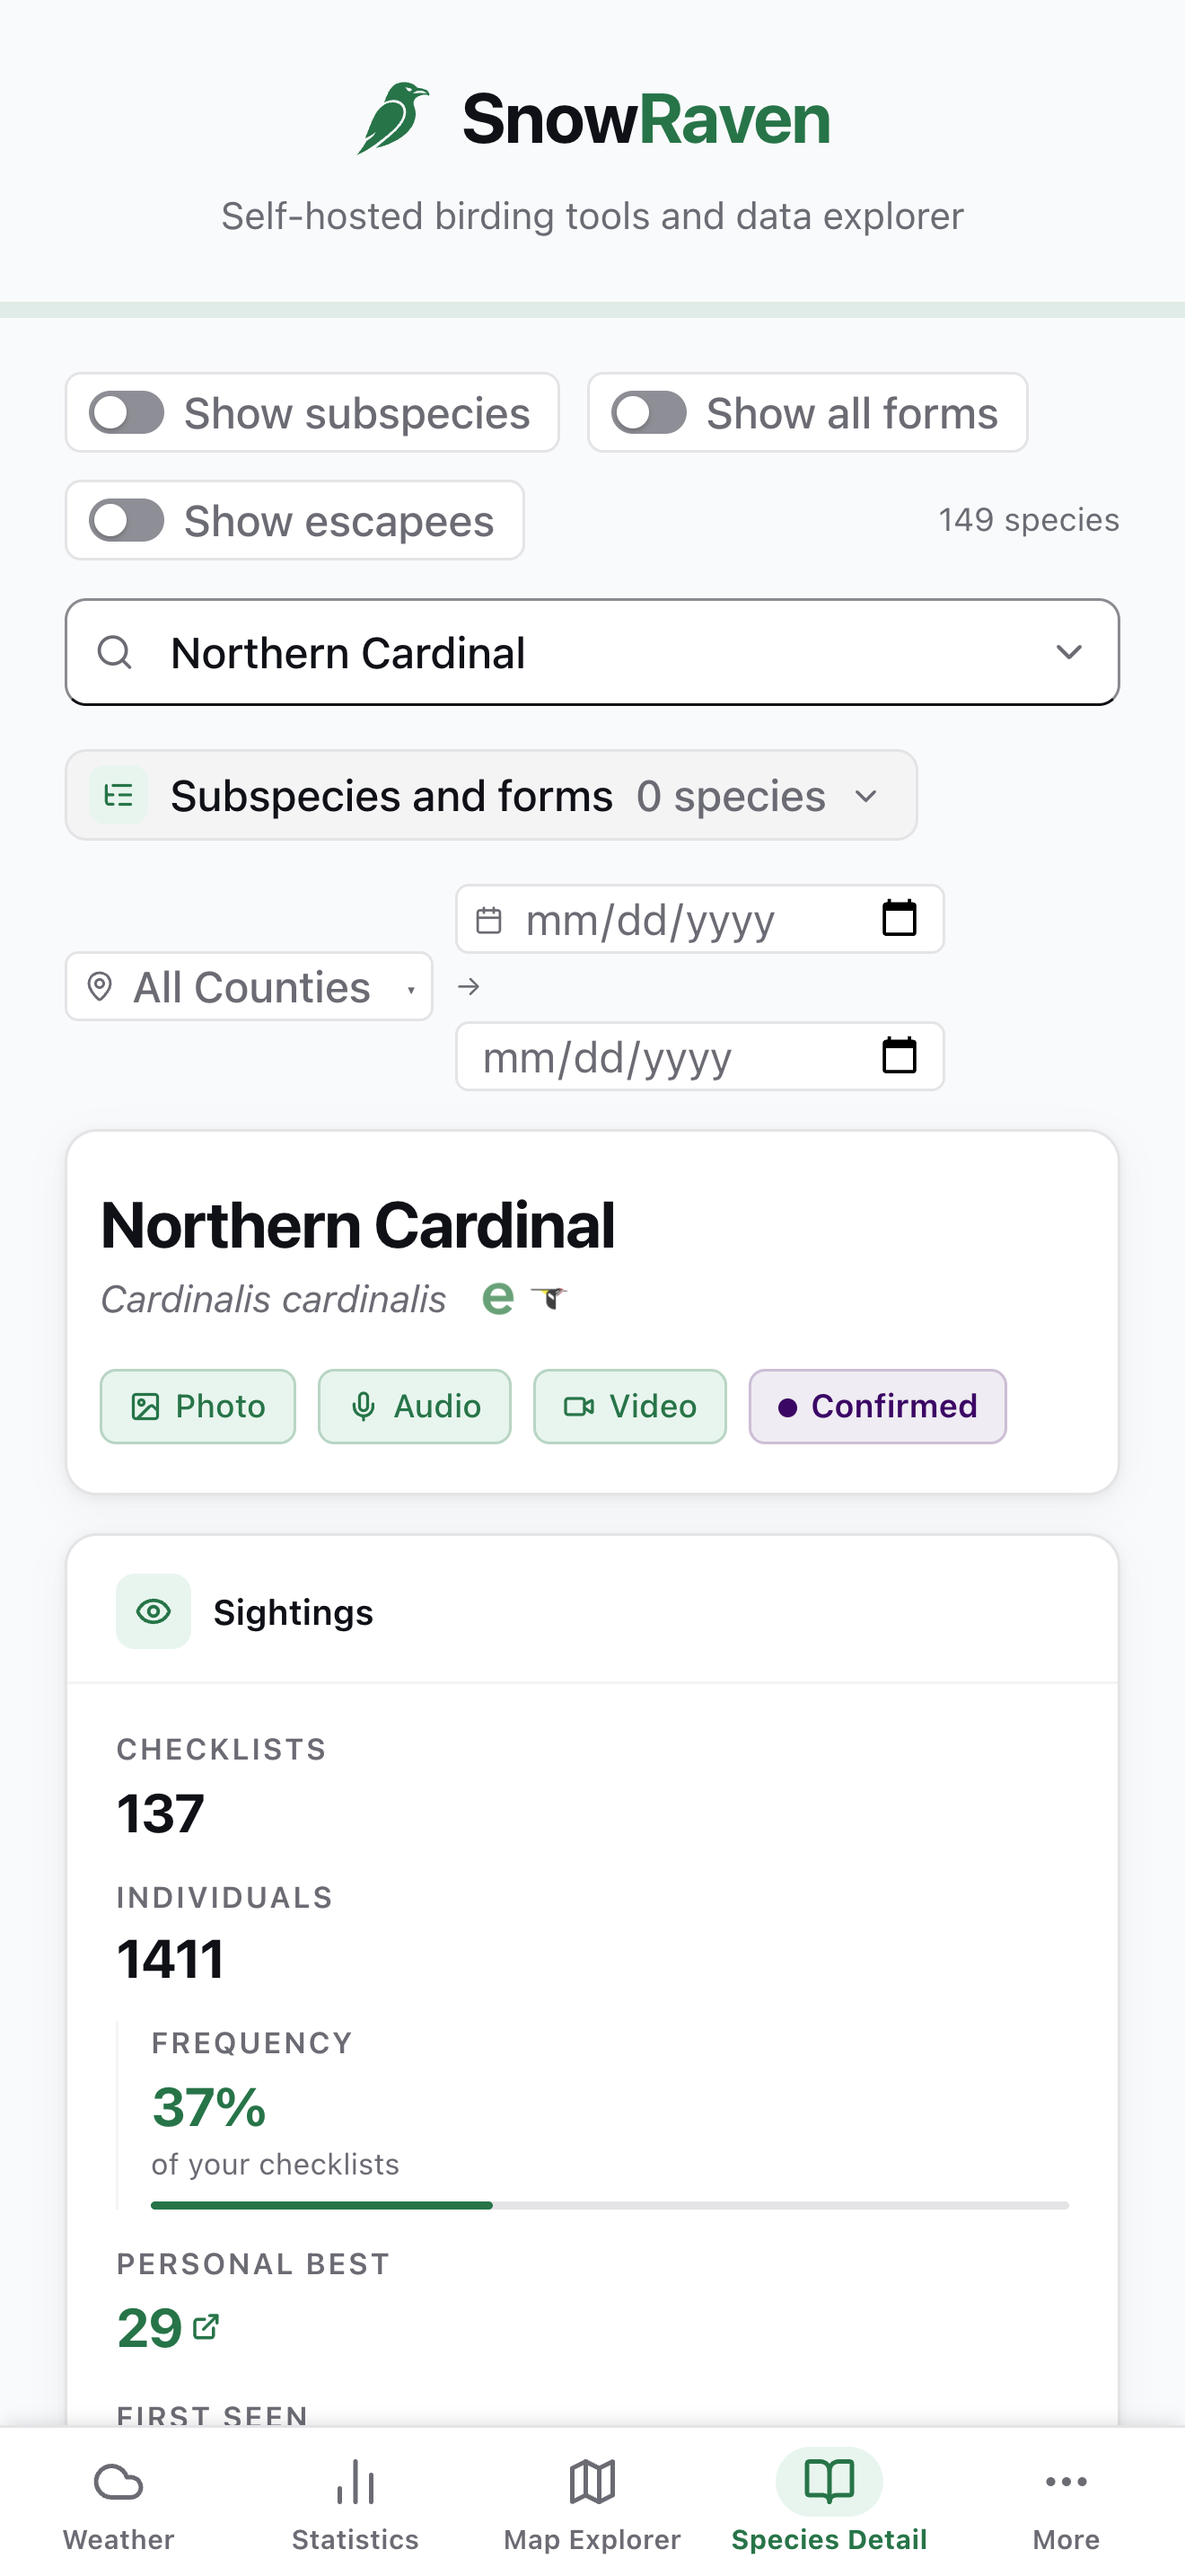
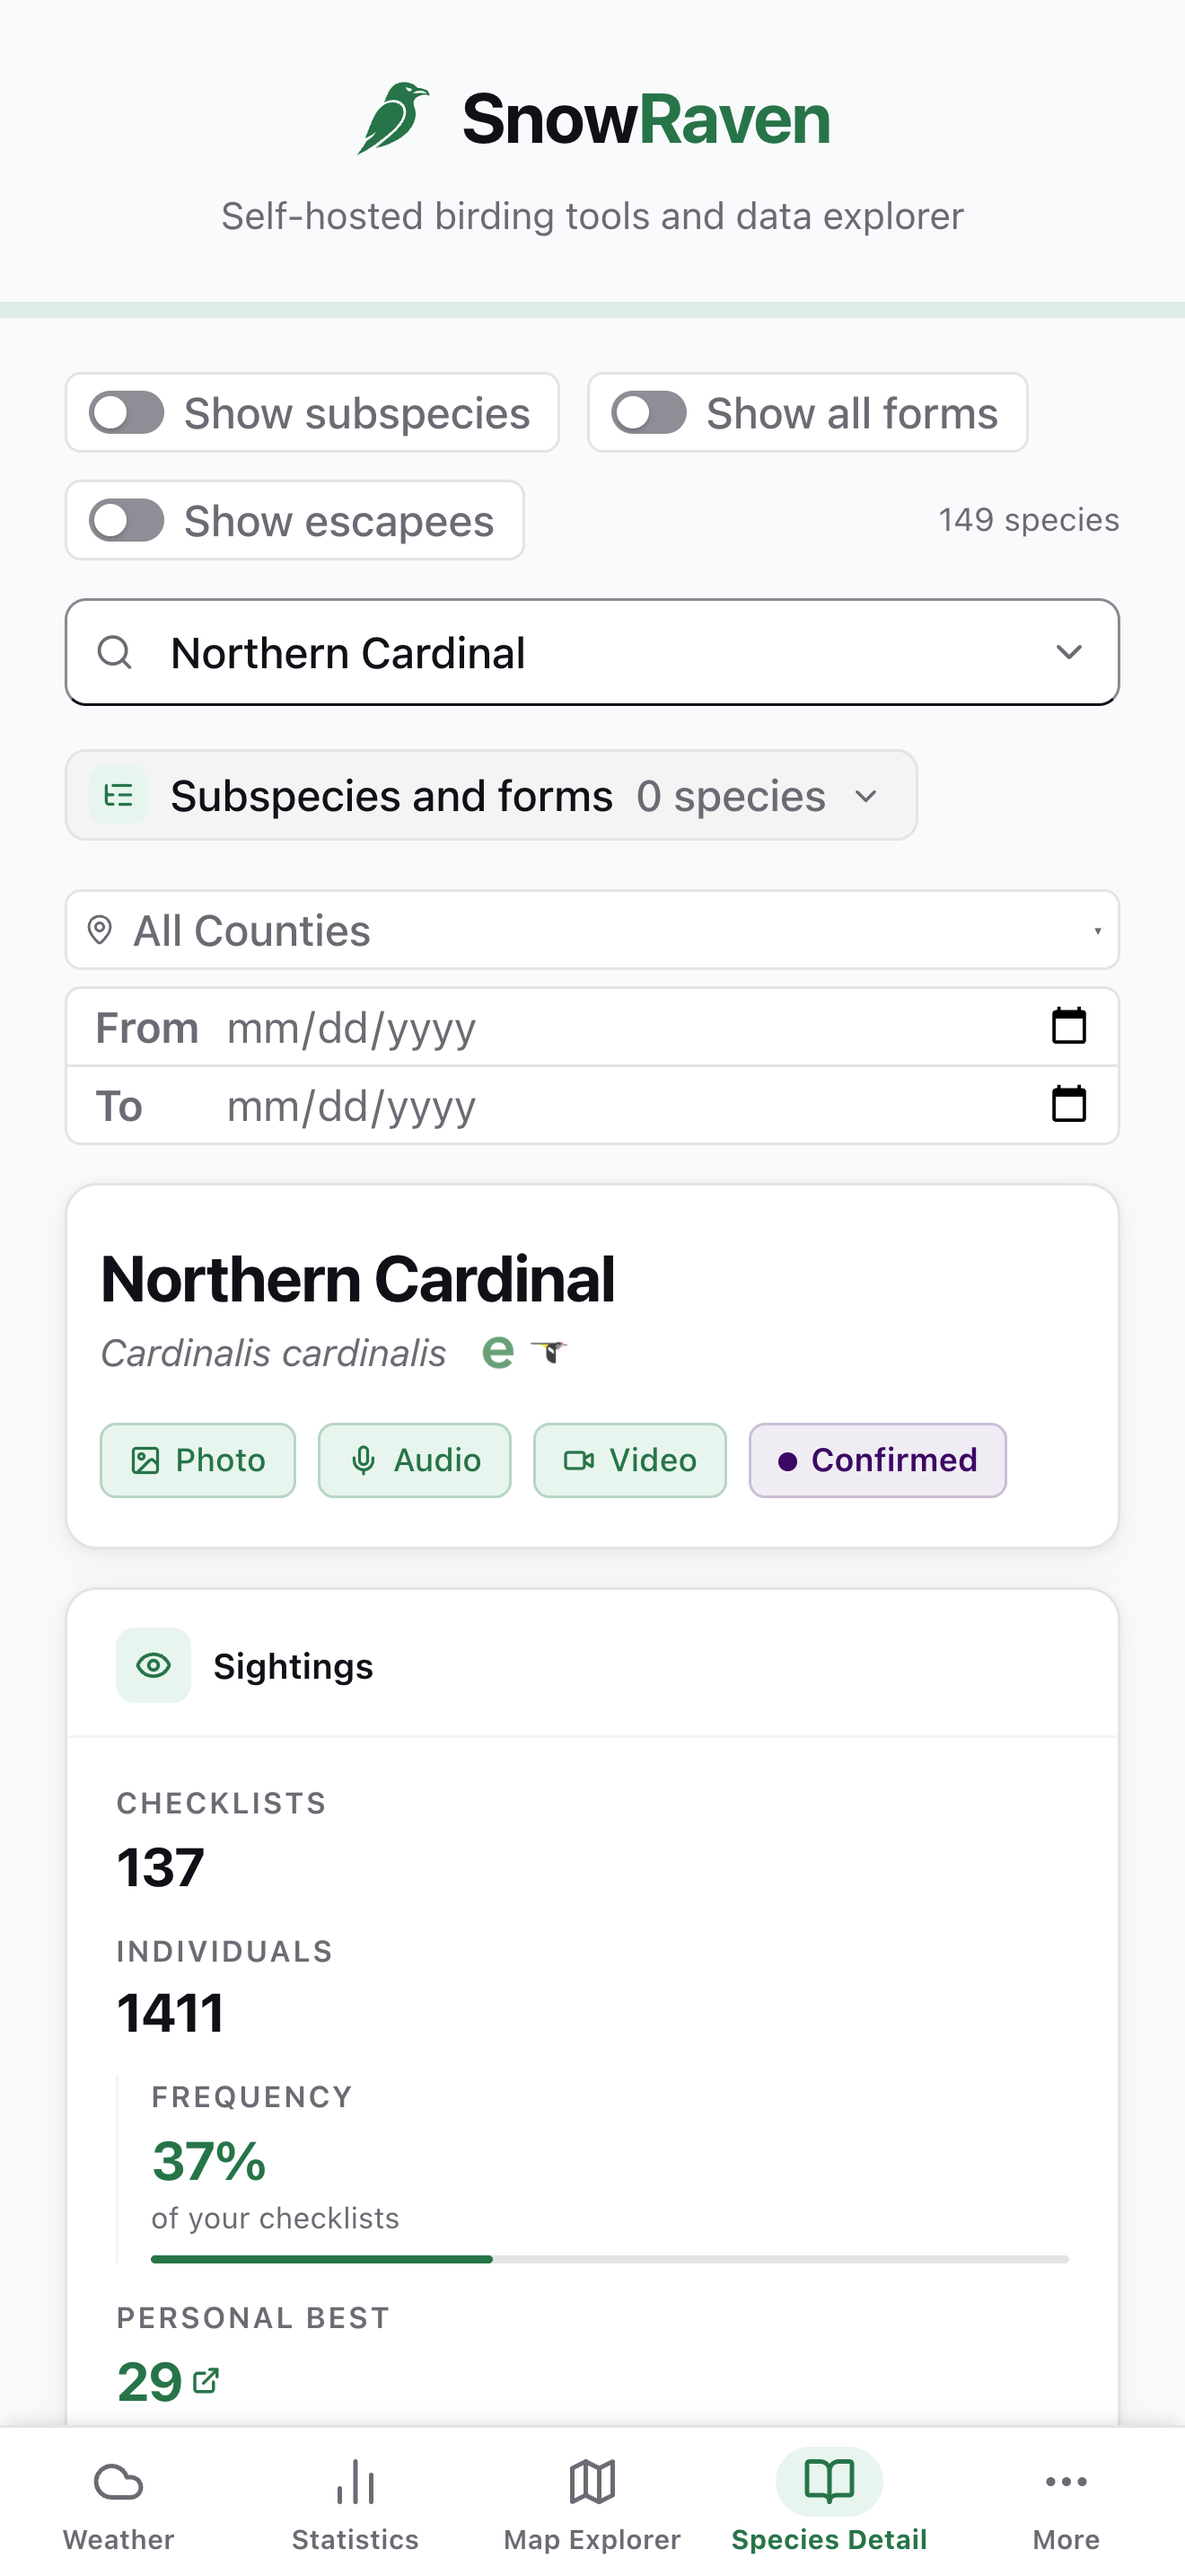
chore(appstore): recapture the iPhone Species Detail screenshot for 1.0.34
The committed 05-species-detail.png photographed the county picker
beside the stacked mm/dd/yyyy / arrow / mm/dd/yyyy tower that 1.0.34
removes. Recaptured from the synthetic demo data at the 6.9-inch iPhone
size (1320x2868, opaque) and approved by the user side by side with the
current store image; it replaces the store record's iPhone set in the
1.0.33 -> 1.0.34 roll-up.

Taken with the capture rig's user agent changed from HeadlessChrome to
Chrome in a one-off copy: eBird now refuses its favicon to the headless
agent, so the committed rig draws the fallback globe where the eBird
mark belongs (decisions.md S5; the rig itself is unchanged here).

Also records the Stage 6 deployment decisions (S1-S8) for
county-date-filter-mobile.

Changed region(s): [[0.0621, 0.3414, 0.9318, 0.962], [0.7455, 0.3414, 0.7765, 0.3724], [0.1864, 0.931, 0.2174, 0.962]]

diff --git a/pipeline/county-date-filter-mobile/decisions.md b/pipeline/county-date-filter-mobile/decisions.md
@@ -188,3 +188,29 @@ now pins `appearance: none` on the Checklists-shaped select, asserts
 structurally that every <=640 rule giving a select in the block a `min-height`
 also removes the native control, pins the caret (phone only, tinted when set),
 and checks every county wrapper draws a caret beside its select.
+
+## Stage 6, The Deployer (2026-09-22)
+
+### S1. The ship shape: one release commit, one dev-only harness fix ahead of it
+The production gate was confirmed by the user, with every pre-gate recommendation accepted. `6589d0b` fixed a latent crash in `website/tools/verify/verify-plan-readout.mjs` (a `const` reassigned whenever any movement above zero was measured, which turned Pipeline `35766577535` on `b9dd66d` red on a reading its own 0.5px tolerance passes; present since `2b80fd8`). It is test tooling, so it took no version bump, and it landed as its own commit before the bump so the release's own runs could not go red on it. `d439aa3` carries the change, its guards, the durable run docs and the four-file version set; `v1.0.34` points at it. `55f5399` is the iOS stamp, so the stamp commit's Pipeline run is the run of record (the tag commit's run was cancelled by that push, as expected).
+
+### S2. The 1.0.33 changelog debt is discharged in this ship
+The two `docs/HELP.md` sentences added at `11130b6` first reached users in 1.0.33 and that release's changelog owed them an entry (ROADMAP, "Two ship-record debts from the v1.0.33 ship", item 1). The user approved the wording and it was appended to the `[1.0.33]` section's `### Changed` list in `d439aa3`, so it is recorded against the release that shipped the sentences rather than against 1.0.34.
+
+### S3. The user's own report screenshot is never committed
+`user-report-iphone.png` shows the user's real Macaulay Library export (species rows, per-species photo counts, totals) and the repository is public. User decision: it stays out of every commit. It was left unstaged, and held outside the tree while `release.sh` ran so the clean-tree preflight stayed intact rather than being bypassed with `ALLOW_DIRTY`. `change-brief.md` names it only as the source of the report.
+
+### S4. App Store: 1.0.33 rolls up into 1.0.34 (user decision)
+1.0.33 (record `f380012a`, submission `44f7cb18`) was still `WAITING_FOR_REVIEW` at the gate. The user chose the roll-up: once TestFlight build 1.0.34.1 has been installed and opened on a real iPhone (the v1.0.31 precondition), withdraw 1.0.33, retarget the same record to 1.0.34, repoint it at 1.0.34.1, replace the whole iPhone 6.9 screenshot set in order with a recaptured `05-species-detail.png`, set the approved roll-up What's New, and resubmit. The cost is 1.0.33's place in the queue. What it buys: one review, one update for iPhone users, no stale screenshot of a defect the app no longer has, and no App Store leg left deferred. If 1.0.33 has moved to `IN_REVIEW` or later by then, the fallback is a deferral, and that needs the user's approval of different What's New text first.
+
+### S5. The App Store capture rig no longer photographs the eBird mark, and the recapture works around it without changing the rig
+Recapturing `05-species-detail.png` with `website/tools/capture-appstore.mjs` as committed drew the Species Detail eBird link as its fallback globe glyph where the committed shot shows the eBird "e". The cause was measured, not assumed. `https://ebird.org/favicon.ico` loads at `naturalWidth` 48 in headless Chromium with a normal Chrome user agent and at 0 with the default `HeadlessChrome` one, while the Birds of the World favicon loads under both. So eBird now refuses the favicon to the headless user agent. The real app on an iPhone sends a normal WebKit user agent and shows the mark. The shot proposed for the store was taken from a one-off copy of the rig whose only difference is the user agent with `HeadlessChrome` replaced by `Chrome`. The committed rig is unchanged, because a tooling change is not this build's scope and every shot the rig takes is now affected (the plain rerun drew globes on 05 and 06 too). ROADMAP carries the fix: `makePage` in `capture-lib.mjs` sets that user agent, and a capture-time check fails the run when a favicon in frame has `naturalWidth` 0. Two things that capture showed are worth keeping. The plain rerun's other iPhone shots differed from the committed ones only by that glyph and by rig timing (and the Statistics shot timed out), and none of them photographs the changed controls, so the committed bytes stay and only 05 is replaced. And the rig draws Chromium's empty-date `mm/dd/yyyy` placeholder and picker icon beside the word "From". The iPhone app does not draw those. The old shot had the same gap, so this change did not introduce it.
+
+### S6. The stamp commit's verification gate went red on a harness race that predates this change, and was re-run rather than chased
+Pipeline `35811799962` (stamp commit `55f5399`) failed one harness: `verify-plan-daylabels.mjs`, in the WebKit wide sweep, timed out waiting for the Welcome dialog to detach after `openPlan` pressed Escape. Every earlier sweep in that run passed (all of Chromium, and WebKit phone and band). Run `35057486338` on the 1.0.31 stamp commit `71fe2e7` failed identically: same harness, same sweep, same line. So this is a recurring identity in the harness, not this change, which touches neither the Welcome dialog nor the Weather tab. The mechanism, read from the code: `WelcomeScreen` attaches its Escape listener in a passive `useEffect`, and the harness presses Escape the moment the dialog is visible. Between the paint and the effect, the key is lost. That is the v1.0.25 async rule's shape, a wait for an observable other than the one the next action consumes. The failed job was re-run, and that publishes nothing. The durable fix is in the harness and goes to ROADMAP: wait for focus to land on the dialog's first button (set by the same effect that attaches the listener) before pressing Escape, and prove it by delaying the effect. Per `.claude/rules/testing.md`, it is not filed on the flake roster, because a race that can be made deterministic is a defect.
+
+### S7. The device-install precondition (v1.0.31), as recorded at stop point A
+The user reported, 2026-09-22 ~20:20 PDT: "The ios app launches in testflight and looks great" (user-verified launch on iPhone). ASC shows TestFlight build 1.0.34.1 (`94b29998-2c06-4bae-b4d6-821cd1db8ad0`) as the newest build, VALID since about 19:50 PDT, which is before the report. So 1.0.34.1 was the build on offer. ASC's install metric for it had not registered an install yet: it lags, and the same metric shows this morning's 1.0.33.1 installs. So the build identity is confirmed by a visible check on the phone (the joined From / To filter pair, which 1.0.33.1 does not draw) before 1.0.33 is withdrawn.
+
+### S8. Device check discharged; the recaptured screenshot approved
+The user confirmed on the iPhone (their words: "yes to both, the phone shows the joined pair") that the TestFlight build shows the county picker across the top with the joined From / To pair beneath it. 1.0.33.1 draws the stacked tower, so the build that launched is 1.0.34.1 (`94b29998-2c06-4bae-b4d6-821cd1db8ad0`), user-verified on a real iPhone on 2026-09-22 before anything was submitted. That discharges the v1.0.31 precondition. The user approved the recaptured `05-species-detail.png` after viewing it side by side with the current store shot. It replaces `appstore/screenshots/iphone-6.9/05-species-detail.png` (md5 `2482614b9ac6f05c5f77c4f40a2188d3`), and the other five iPhone images and all six iPad images keep their committed bytes.
